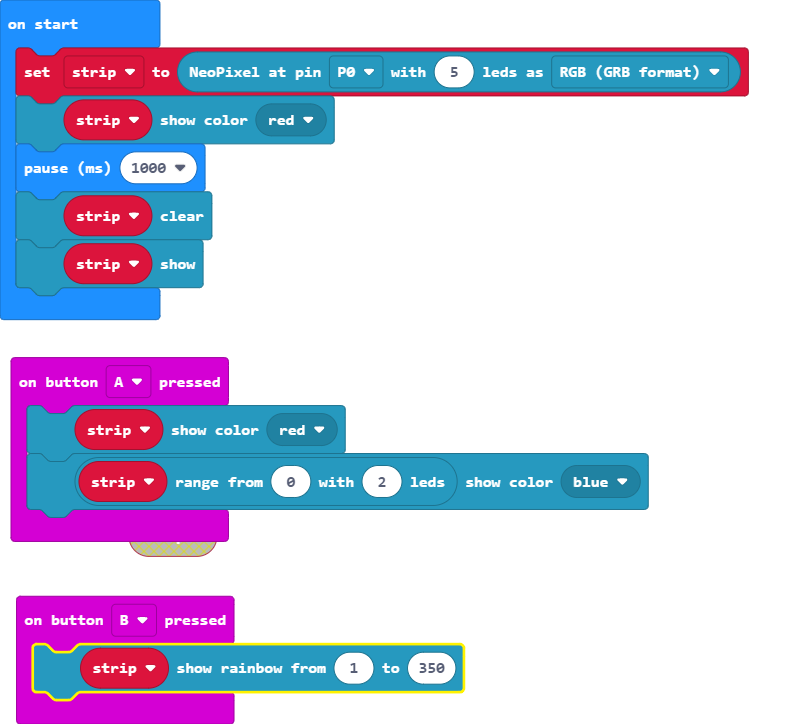
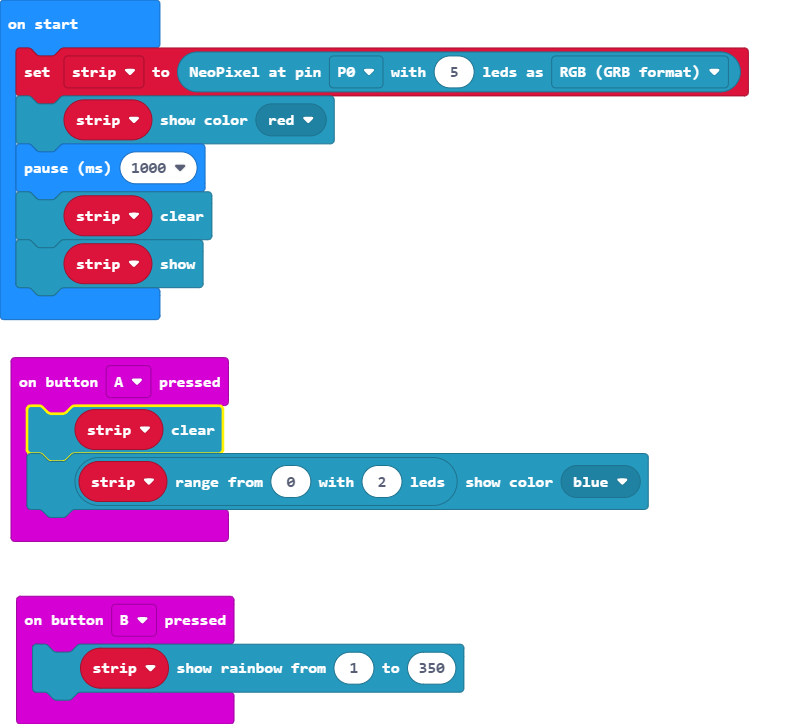
Update main.blocks, main.ts

Changed region(s): [[0.0312, 0.8812, 0.5938, 0.9724], [0.0312, 0.547, 0.4375, 0.6381], [0.1562, 0.7293, 0.2812, 0.7901]]

diff --git a/main.ts b/main.ts
@@ -1,5 +1,5 @@
 input.onButtonPressed(Button.A, function () {
-    strip.showColor(neopixel.colors(NeoPixelColors.Red))
+    strip.clear()
     strip.range(0, 2).showColor(neopixel.colors(NeoPixelColors.Blue))
 })
 input.onButtonPressed(Button.B, function () {
